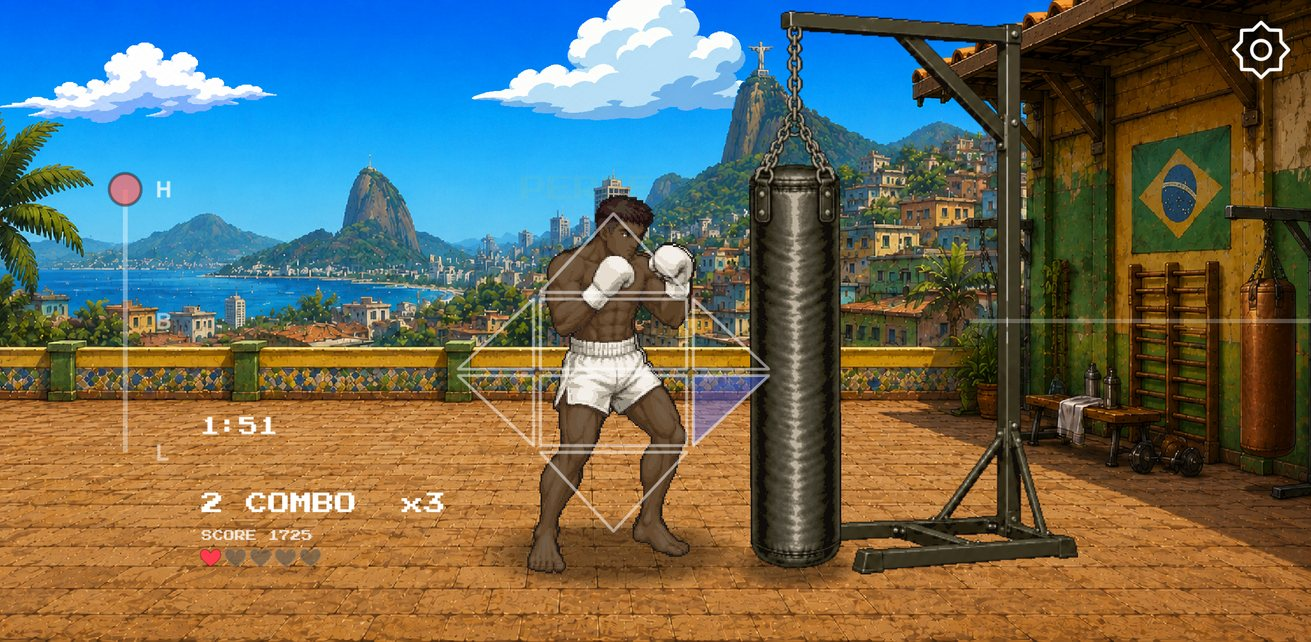
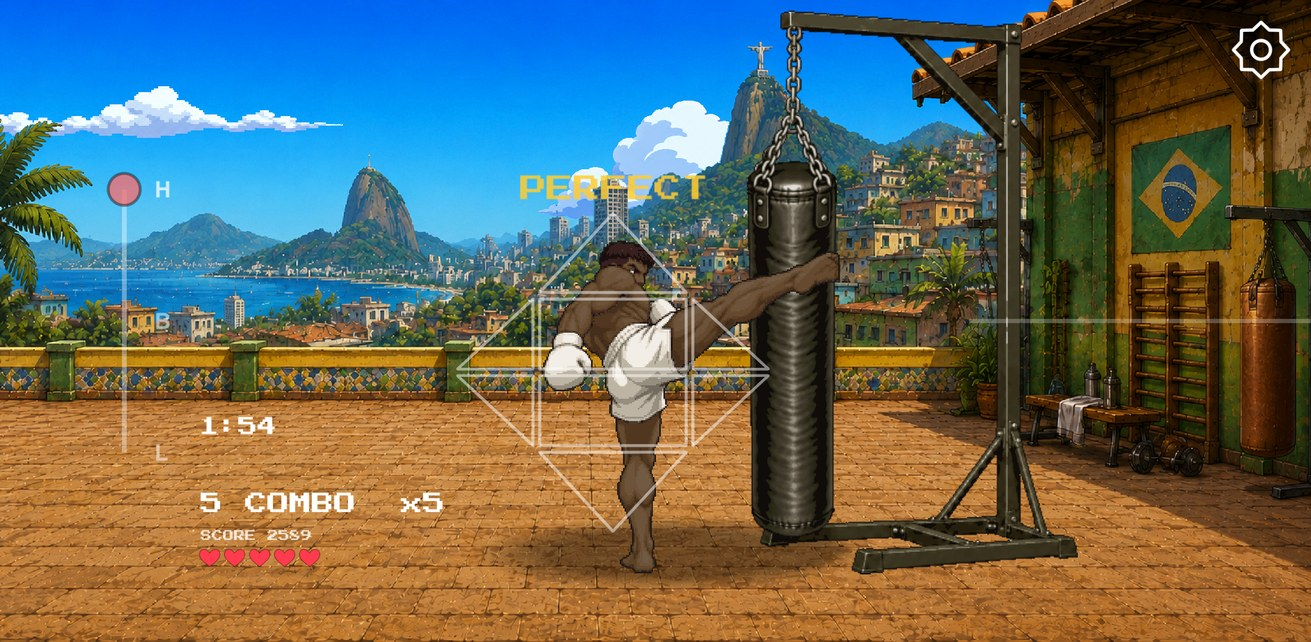
Screenshots 1 and 3 re-captured mid-strike
Both stills showed the fighter idling under a live cue. Recaptured
with scripted demos so the strike matches the cue: a left hook landing
PERFECT in the Dubai career level (the earlier Albania level only
teaches jab/cross, so a hook cue cannot exist there), and a rear
roundhouse to the head in the Brazil Offline run. Alt text updated.

diff --git a/heavy-bag/index.html b/heavy-bag/index.html
@@ -158,7 +158,7 @@
           <div class="shot"><div class="brk brk--tan"><span class="b"></span>
             <picture>
               <source srcset="../assets/img/heavy-bag/shot-gameplay.webp" type="image/webp">
-              <img class="art" src="../assets/img/heavy-bag/shot-gameplay.jpg" alt="A career level: a PERFECT lands as the fighter hooks the bag, combo and score on the HUD" width="1311" height="642" loading="lazy" decoding="async">
+              <img class="art" src="../assets/img/heavy-bag/shot-gameplay.jpg" alt="A career level: a left hook lands PERFECT on the bag, combo, score and stars on the HUD" width="1311" height="642" loading="lazy" decoding="async">
             </picture>
           </div></div>
           <div class="shot"><div class="brk brk--tan"><span class="b"></span>
@@ -170,7 +170,7 @@
           <div class="shot"><div class="brk brk--tan"><span class="b"></span>
             <picture>
               <source srcset="../assets/img/heavy-bag/shot-open-mat.webp" type="image/webp">
-              <img class="art" src="../assets/img/heavy-bag/shot-open-mat.jpg" alt="Offline mode in the Brazil gym: two-minute timer, hearts, and the cue diamond" width="1311" height="642" loading="lazy" decoding="async">
+              <img class="art" src="../assets/img/heavy-bag/shot-open-mat.jpg" alt="Offline mode in the Brazil gym: a rear head kick lands PERFECT, with the two-minute timer, hearts and the cue diamond" width="1311" height="642" loading="lazy" decoding="async">
             </picture>
           </div></div>
           <div class="shot"><div class="brk brk--tan"><span class="b"></span>
